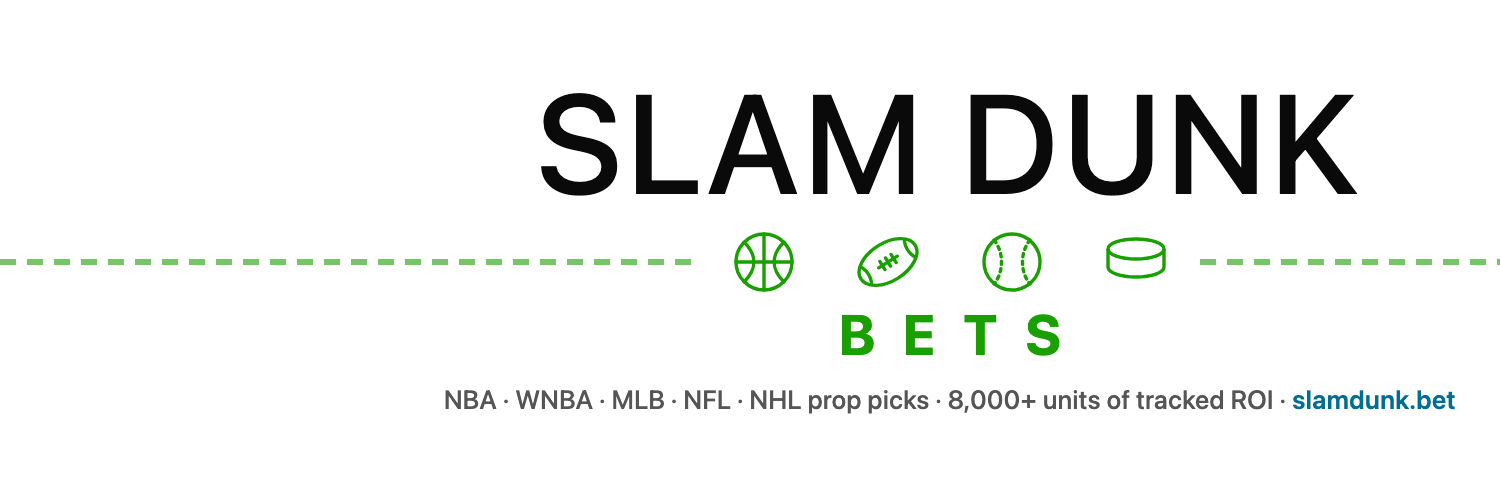
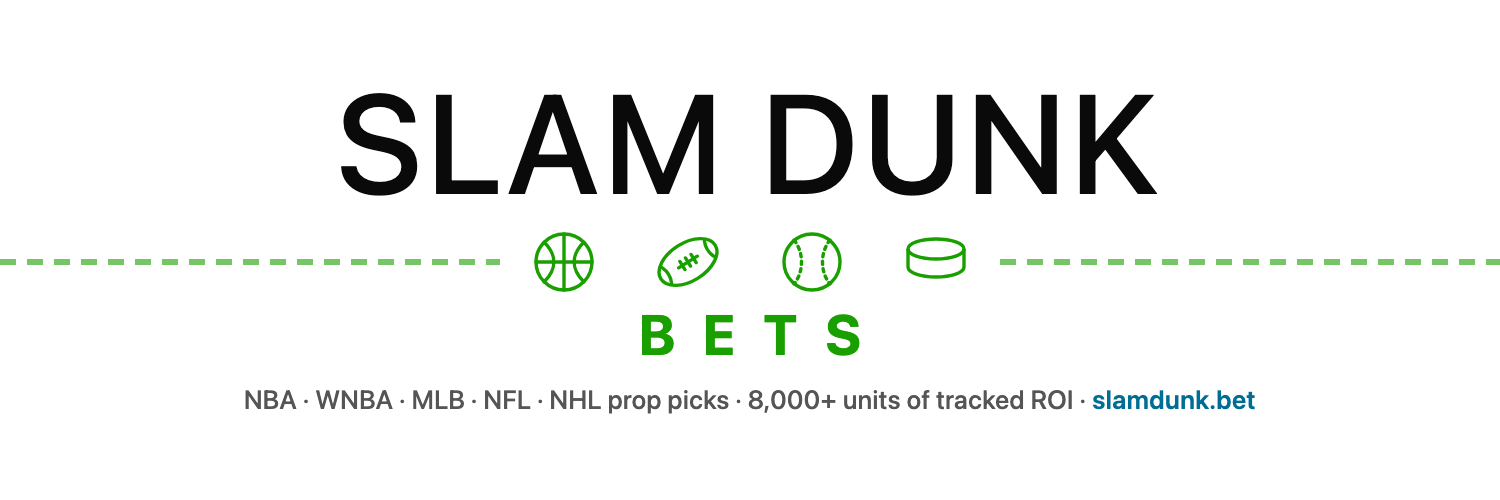
Center content in X header images
Drop the 400px left offset in the dark and light X header sources,
move the dashed rule's gap to frame the centered icons, and re-render
the PNG and JPEG exports.

diff --git a/_og/x-header-light.html b/_og/x-header-light.html
@@ -4,7 +4,7 @@
   html, body { margin: 0; padding: 0; }
   body { width: 1500px; height: 500px; background: #ffffff; color: #0a0a0a; overflow: hidden;
          font-family: system-ui, -apple-system, BlinkMacSystemFont, "Segoe UI", Roboto, "Helvetica Neue", Arial, sans-serif; }
-  .wrap { box-sizing: border-box; width: 1500px; height: 500px; position: relative; display: flex; flex-direction: column; align-items: center; justify-content: flex-start; padding: 72px 0 0 400px; }
+  .wrap { box-sizing: border-box; width: 1500px; height: 500px; position: relative; display: flex; flex-direction: column; align-items: center; justify-content: flex-start; padding: 72px 0 0 0; }
   .rule { position: absolute; left: 0; top: 0; pointer-events: none; }
   .word { position: relative; font-size: 140px; line-height: 1; font-weight: 500; letter-spacing: 0.04em; white-space: nowrap; }
   .icons { position: relative; height: 68px; margin-top: 16px; display: flex; align-items: center; justify-content: center; gap: 56px; }
@@ -15,8 +15,8 @@
 </style></head>
 <body><div class="wrap">
   <svg class="rule" aria-hidden="true" width="1500" height="500" viewBox="0 0 1500 500">
-    <path d="M0 262H700" stroke="#1a9f00" stroke-width="6" fill="none" stroke-dasharray="16 11" opacity="0.6"></path>
-    <path d="M1200 262H1500" stroke="#1a9f00" stroke-width="6" fill="none" stroke-dasharray="16 11" opacity="0.6"></path>
+    <path d="M0 262H500" stroke="#1a9f00" stroke-width="6" fill="none" stroke-dasharray="16 11" opacity="0.6"></path>
+    <path d="M1000 262H1500" stroke="#1a9f00" stroke-width="6" fill="none" stroke-dasharray="16 11" opacity="0.6"></path>
   </svg>
   <div class="word">SLAM DUNK</div>
   <div class="icons">

diff --git a/_og/x-header.html b/_og/x-header.html
@@ -4,7 +4,7 @@
   html, body { margin: 0; padding: 0; }
   body { width: 1500px; height: 500px; background: #0a0a0a; color: #ffffff; overflow: hidden;
          font-family: system-ui, -apple-system, BlinkMacSystemFont, "Segoe UI", Roboto, "Helvetica Neue", Arial, sans-serif; }
-  .wrap { box-sizing: border-box; width: 1500px; height: 500px; position: relative; display: flex; flex-direction: column; align-items: center; justify-content: flex-start; padding: 72px 0 0 400px; }
+  .wrap { box-sizing: border-box; width: 1500px; height: 500px; position: relative; display: flex; flex-direction: column; align-items: center; justify-content: flex-start; padding: 72px 0 0 0; }
   .rule { position: absolute; left: 0; top: 0; pointer-events: none; }
   .word { position: relative; font-size: 140px; line-height: 1; font-weight: 500; letter-spacing: 0.04em; white-space: nowrap; }
   .icons { position: relative; height: 68px; margin-top: 16px; display: flex; align-items: center; justify-content: center; gap: 56px; }
@@ -15,8 +15,8 @@
 </style></head>
 <body><div class="wrap">
   <svg class="rule" aria-hidden="true" width="1500" height="500" viewBox="0 0 1500 500">
-    <path d="M0 262H700" stroke="#39ff14" stroke-width="6" fill="none" stroke-dasharray="16 11" opacity="0.6"></path>
-    <path d="M1200 262H1500" stroke="#39ff14" stroke-width="6" fill="none" stroke-dasharray="16 11" opacity="0.6"></path>
+    <path d="M0 262H500" stroke="#39ff14" stroke-width="6" fill="none" stroke-dasharray="16 11" opacity="0.6"></path>
+    <path d="M1000 262H1500" stroke="#39ff14" stroke-width="6" fill="none" stroke-dasharray="16 11" opacity="0.6"></path>
   </svg>
   <div class="word">SLAM DUNK</div>
   <div class="icons">
